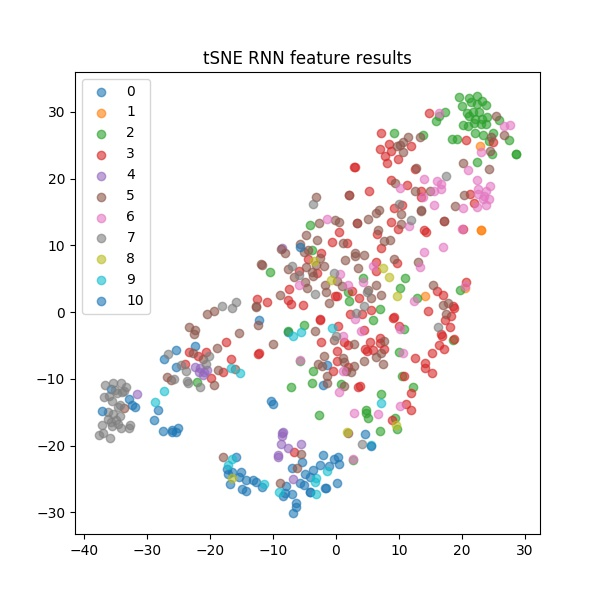
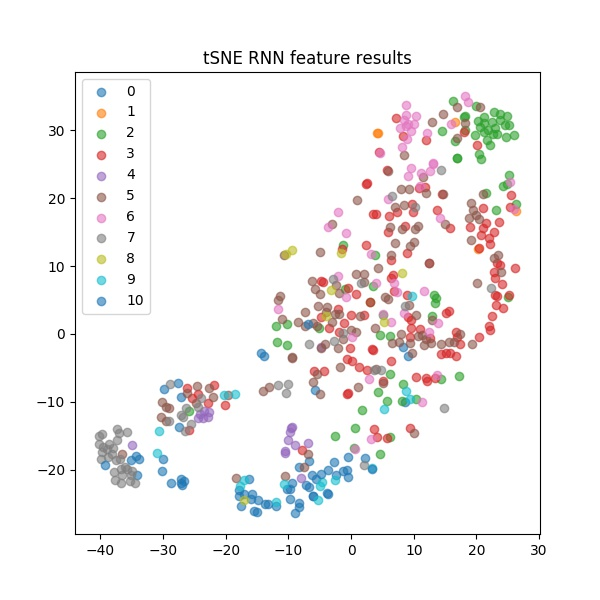
modify dataset inference bug, add argument remove tqdm, finish bash script

diff --git a/hw5/seq2seq_inference.py b/hw5/seq2seq_inference.py
@@ -36,35 +36,38 @@ def main(args):
                                    shuffle=False)
 
     # 3-3
-    result, ground_truth, accuracy = [], [], 0
+    result = []
+    # ground_truth = []
+    # accuracy = 0
+
     with torch.no_grad():
         print("Predicting......")
         model.eval()
 
-        for video, label, length in valid_data_loader:
+        for video, _, length in valid_data_loader:
             video = Variable(video).cuda() if with_cuda else Variable(video)
             output = model(video, length)
             value, index = torch.max(output, dim=2)
             result.append(index.squeeze())
-            ground_truth.append(label.squeeze())
-            accuracy += np.mean((index.cpu().data == label).numpy())
-            print(np.mean((index.cpu().data == label).numpy()))
+            # ground_truth.append(label.squeeze())
+            # accuracy += np.mean((index.cpu().data == label).numpy())
+            # print(np.mean((index.cpu().data == label).numpy()))
 
-    print("Model average accuracy:", accuracy / len(valid_data_loader))
+    # print("Model average accuracy:", accuracy / len(valid_data_loader))
+    files = sorted([file for file in os.listdir(args.full_length_dir) if file.startswith('OP')])
 
-    files = sorted([(file) for file in os.listdir(args.input_txt) if file.endswith('.txt')])
-
-    ax = plt.subplot(211)
-    ax2 = plt.subplot(212)
+    # ax = plt.subplot(211)
+    # ax2 = plt.subplot(212)
     for videos in range(len(result)):
-        colors = ['w', 'g', 'r', 'c', 'm', 'y', 'k', 'b', 'C0', 'C1', 'C2']
-        test = result[videos].cpu().data.numpy().tolist()
-
         # write output file
+        test = result[videos].cpu().data.numpy().tolist()
         filename = os.path.join(output_file, files[videos])
-        with open(filename, 'w') as f:
+        with open(filename + '.txt', 'w') as f:
             writeout = [str(test[idx]) + '\n' for idx in range(len(test))]
             f.writelines(writeout)
+
+        """
+        colors = ['w', 'g', 'r', 'c', 'm', 'y', 'k', 'b', 'C0', 'C1', 'C2']
 
         cmap = mpl.colors.ListedColormap([colors[idx] for idx in test])
         bounds = [i for i in range(len(test))]
@@ -89,6 +92,7 @@ def main(args):
 
         filename = os.path.join(output_file, '{}_seq.jpg'.format(files[videos][:-4]))
         plt.savefig(filename)
+        """
 
     # 3-2
     print("Saving loss figure......")
@@ -129,8 +133,10 @@ if __name__ == '__main__':
     parser = argparse.ArgumentParser(description="Seq2Seq inference")
     parser.add_argument('--input-feature', default='rnn_full_length_valid_feature.tar',
                         help='input feature file')
-    parser.add_argument('--input-txt', default='HW5_data/FullLengthVideos/labels/valid',
-                        help='input csv file')
+    parser.add_argument('--full-length-dir', default='HW5_data/FullLengthVideos/videos/valid',
+                        help='video data for train/validation')
+    parser.add_argument('--full-length-file', default='train_full_length_video.tar',
+                        help='full length video file for dumping tar')
     parser.add_argument('--output-file', default='saved/seq2seq',
                         help='output data directory')
     parser.add_argument('--checkpoint', default='checkpoints/seq2seq_resnet50/best_checkpoint.pth.tar',

diff --git a/hw5/preprocess.py b/hw5/preprocess.py
@@ -9,36 +9,42 @@ def main(args):
     """
         preprocess of training/validation video frames (trimmed / full length)
     """
-    data_list = getVideoList(args.csv_file)
-    all_frames = {}
-    for i, (category, name) in enumerate(zip(data_list['Video_category'],
-                                             data_list['Video_name'])):
-        print("Loading: Category: {} Name: {}".format(category, name), end=' ')
-        frames = readShortVideo(args.video_dir, category, name, 12, 1)
-        print(len(frames), 'frames', end='\r')
-        sys.stdout.write('\033[K')
-        frames = torch.stack(frames, 0)
-        all_frames[str(category+'/'+name)] = frames
+    if args.mode == 'trimmed':
+        data_list = getVideoList(args.csv_file)
+        all_frames = {}
+        for i, (category, name) in enumerate(zip(data_list['Video_category'],
+                                                 data_list['Video_name'])):
+            print("Loading: Category: {} Name: {}".format(category, name), end=' ')
+            frames = readShortVideo(args.video_dir, category, name, 12, 1)
+            print(len(frames), 'frames', end='\r')
+            sys.stdout.write('\033[K')
+            frames = torch.stack(frames, 0)
+            all_frames[str(category+'/'+name)] = frames
 
-    torch.save(all_frames, args.video_file)
-    print('Frames of {} trimmed-videos loaded.'.format(len(all_frames)))
+        torch.save(all_frames, args.video_file)
+        print('Frames of {} trimmed-videos loaded.'.format(len(all_frames)))
 
-    categories = sorted([file for file in os.listdir(args.full_length_dir) if file.startswith('OP')])
+    elif args.mode == 'full-length':
+        categories = sorted([file for file in os.listdir(args.full_length_dir) if file.startswith('OP')])
 
-    full_length_frames = {}
-    for category in categories:
-        print("Loading: Category: {}".format(category), end=' ')
-        frames = readFullLengthVideo(args.full_length_dir, category)
-        print(len(frames), 'frames')
-        frames = torch.stack(frames, 0)
-        full_length_frames[category] = frames
+        full_length_frames = {}
+        for category in categories:
+            print("Loading: Category: {}".format(category), end=' ')
+            frames = readFullLengthVideo(args.full_length_dir, category)
+            print(len(frames), 'frames')
+            frames = torch.stack(frames, 0)
+            full_length_frames[category] = frames
 
-    torch.save(full_length_frames, args.full_length_file)
-    print('Frames of {} full-length videos loaded.'.format(len(full_length_frames)))
+        torch.save(full_length_frames, args.full_length_file)
+        print('Frames of {} full-length videos loaded.'.format(len(full_length_frames)))
 
+    else:
+        return NotImplementedError('Choose either trimmed or full-length')
 
 if __name__ == '__main__':
     parser = argparse.ArgumentParser(description='Preprocess video data')
+    parser.add_argument('--mode', default='trimmed',
+                        help='trimmed or full [trimmed / full]')
     parser.add_argument('--csv-file', default='HW5_data/TrimmedVideos/label/gt_train.csv',
                         help='action label csv file')
     parser.add_argument('--video-dir', default='HW5_data/TrimmedVideos/video/train',

diff --git a/hw5/utils/dataset.py b/hw5/utils/dataset.py
@@ -58,7 +58,12 @@ class TrimmedVideo(Dataset):
             if os.path.exists(self.args.input_feature):
                 self.valid_feature = torch.load(self.args.input_feature)
             else:
-                return NotImplementedError('Haven\'t trained the model yet!')
+                valid_video = torch.load(self.args.input_video)
+
+                with torch.no_grad():
+                    self.pretrained.eval()
+                    self.valid_feature = [self.pretrained(frames.cuda()) for _, frames in valid_video.items()]
+                    torch.save(self.valid_feature, self.args.input_feature)
 
             self.valid_label = getVideoList(self.args.input_csv)['Action_labels']
             self.valid_label = np.array(self.valid_label).astype(np.uint8)
@@ -157,10 +162,27 @@ class FullLengthVideo(Dataset):
             if os.path.exists(self.args.input_feature):
                 self.valid_feature = torch.load(self.args.input_feature)
             else:
-                return NotImplementedError('Haven\'t trained the model yet!')
+                valid_video = torch.load(self.args.full_length_file)
 
-            self.valid_label = getLabelList(self.args.input_txt)
-            self.valid_label = [torch.LongTensor(labels) for labels in self.valid_label]
+                self.valid_feature = []
+                with torch.no_grad():
+                    self.pretrained.eval()
+
+                    for _, frames in valid_video.items():
+                        video = []
+                        frames = frames.cuda() if self.with_cuda else frames
+                        for i in range(len(frames)):
+                            video.append(self.pretrained(frames[i].unsqueeze(0)).squeeze(0))
+                        self.valid_feature.append(torch.stack(video))
+
+                    torch.save(self.valid_feature, self.args.input_feature)
+
+            # self.valid_label = getLabelList('HW5_data/FullLengthVideos/labels/valid')
+            # self.valid_label = [torch.LongTensor(labels) for labels in self.valid_label]
+
+            # implement for not generating figures
+            self.valid_label = [None for _ in range(len(self.valid_feature))]
+
 
     def rnn_collate_fn(self, batch):
         if self.mode == 'eval':
@@ -170,8 +192,8 @@ class FullLengthVideo(Dataset):
                 label.append(item)
             data = pad_sequence(data)
             length = [frame.size(0) for frame in data]
-            label = torch.stack(label)
-            label = label.transpose(0, 1)
+            # label = torch.stack(label)
+            # label = label.transpose(0, 1)
         else:
             max_sample = 512
             data, label = [], []

diff --git a/hw5/rnn_inference.py b/hw5/rnn_inference.py
@@ -106,7 +106,7 @@ def main(args):
         model.eval()
 
         # CNN
-        cnn_tsne = TSNE(n_components=2, random_state=30, verbose=1, n_iter=1500)
+        cnn_tsne = TSNE(n_components=2, random_state=40, verbose=1, n_iter=1500)
         for video, label in cnn_valid_data_loader:
             print("\tCNN based features")
             cnn_features = video.cpu().numpy()
@@ -124,7 +124,7 @@ def main(args):
             plt.savefig(filename)
 
         # RNN
-        rnn_tsne = TSNE(n_components=2, random_state=30, verbose=1, n_iter=1500)
+        rnn_tsne = TSNE(n_components=2, random_state=40, verbose=1, n_iter=1500)
         for video, label, length in valid_data_loader:
             print("\tRNN based features")
             video = Variable(video).cuda() if with_cuda else Variable(video)
@@ -153,8 +153,12 @@ if __name__ == '__main__':
     parser = argparse.ArgumentParser(description="RNN inference")
     parser.add_argument('--input-feature', default='cnn_valid_feature.tar',
                         help='input feature file')
+    parser.add_argument('--input-video', default='valid_video.tar',
+                        help='input video file')
     parser.add_argument('--input-csv', default='HW5_data/TrimmedVideos/label/gt_valid.csv',
                         help='input csv file')
+    parser.add_argument('--video-dir', default='HW5_data/TrimmedVideos/video/valid',
+                        help='video data for train/validation')
     parser.add_argument('--output-file', default='saved/rnn',
                         help='output data directory')
     parser.add_argument('--checkpoint', default='checkpoints/rnn_resnet50/epoch150_checkpoint.pth.tar',

diff --git a/hw5/cnn_inference.py b/hw5/cnn_inference.py
@@ -97,8 +97,12 @@ if __name__ == '__main__':
     parser = argparse.ArgumentParser(description="CNN inference")
     parser.add_argument('--input-feature', default='cnn_valid_feature.tar',
                         help='input feature file')
+    parser.add_argument('--input-video', default='valid_video.tar',
+                        help='input video file')
     parser.add_argument('--input-csv', default='HW5_data/TrimmedVideos/label/gt_valid.csv',
                         help='input csv file')
+    parser.add_argument('--video-dir', default='HW5_data/TrimmedVideos/video/train',
+                        help='video data for train/validation')
     parser.add_argument('--output-file', default='saved/cnn',
                         help='output data directory')
     parser.add_argument('--checkpoint', default='checkpoints/cnn_resnet50/epoch150_checkpoint.pth.tar',

diff --git a/hw5/README.md b/hw5/README.md
@@ -75,7 +75,7 @@
         
         train     | valid     |
         --------- | ----------
-        0.993823  | 0.507500   
+        0.993823  | 0.485493   
   
   * **Trimmed action recognition**
     
@@ -101,7 +101,7 @@
     
         train     | valid     |
         --------- | ----------
-        0.841980  | 0.498750  
+        0.841980  | 0.520309  
         
   *	**Temporal action segmentation**
         
